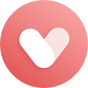
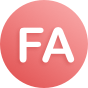
1-15-霍春阳-20:54
替换图片
2更改加载后返回定位
3.解决 分享项目页面,点击全部后..空白页面

Changed region(s): [[0.2045, 0.2955, 0.8409, 0.7727]]

diff --git a/Weitianshi/pages/projectDetail/projectDetail.js b/Weitianshi/pages/projectDetail/projectDetail.js
@@ -43,6 +43,7 @@ Page({
     nonet: true
   },
   onLoad: function (options) {
+    console.log(options)
     var that = this;
     var id = options.id;//当前被查看用户的项目id
     var share_id = options.share_id;
@@ -1388,30 +1389,34 @@ Page({
   //跳转到历史融资
   toHistory: function () {
     let that = this;
+    let share_id = this.data.share_id;
     let user_id = wx.getStorageSync('user_id');
     let id = this.data.id;
-    app.href('/pages/myProject/historyFiance/historyFiance?user_id=' + user_id + '&&project_id=' + id);
+    app.href('/pages/myProject/historyFiance/historyFiance?user_id=' + user_id + '&&project_id=' + id + '&&share_id=' + share_id);
   },
   //跳转到核心团队
   toTeam: function () {
     let that = this;
+    let share_id = this.data.share_id;
     let user_id = wx.getStorageSync('user_id');
     let id = this.data.id;
-    app.href('/pages/myProject/proTeam/proTeam?user_id=' + user_id + '&&project_id=' + id);
+    app.href('/pages/myProject/proTeam/proTeam?user_id=' + user_id + '&&project_id=' + id + '&&share_id=' + share_id);
   },
   //跳转到产品
   toBrand: function () {
     let that = this;
+    let share_id = this.data.share_id;
     let user_id = wx.getStorageSync('user_id');
     let id = this.data.id;
-    app.href('/pages/myProject/proBrand/proBrand?user_id=' + user_id + '&&project_id=' + id);
+    app.href('/pages/myProject/proBrand/proBrand?user_id=' + user_id + '&&project_id=' + id + '&&share_id=' + share_id);
   },
   //跳转到里程碑
   mileStone: function () {
     let that = this;
     let user_id = wx.getStorageSync('user_id');
+    let share_id = this.data.share_id;
     let id = this.data.id;
-    app.href('/pages/myProject/proMilestone/proMilestone?user_id=' + user_id + '&&project_id=' + id);
+    app.href('/pages/myProject/proMilestone/proMilestone?user_id=' + user_id + '&&project_id=' + id + '&&share_id=' + share_id);
   },
   contactTap: function () {
     let that = this;

diff --git a/Weitianshi/pages/message/potentialProject/potentialProject.js b/Weitianshi/pages/message/potentialProject/potentialProject.js
@@ -11,11 +11,8 @@ Page({
     nonet: true
   },
   onLoad: function (e) {
-  },
-  onShow: function (e) {
-    // 我申请查看的项目
-    var user_id = wx.getStorageSync('user_id');//获取我的user_id
     let that = this;
+    var user_id = wx.getStorageSync('user_id');//获取我的user_id
     wx.showLoading({
       title: 'loading',
       mask: true,
@@ -77,6 +74,11 @@ Page({
         }
       }
     })
+  },
+  onShow: function (e) {
+    // 我申请查看的项目
+    var user_id = wx.getStorageSync('user_id');//获取我的user_id
+    let that = this;
     // 取消红点 --推送给我的
     wx.request({
       url: url_common + '/api/message/setMessageToRead',
@@ -499,7 +501,7 @@ Page({
         this.contactProjectPerson(user_id, push_id, status, pushToList);
       }, 1000)
     })
-  }, 
+  },
   //加入项目库
   addProjectLibrary: function (e) {
     let user_id = wx.getStorageSync('user_id');
@@ -531,8 +533,8 @@ Page({
     })
   },
   //联系项目方后..改变样式
-  contactProjectPerson(user_id, push_id, status, pushToList){ 
-    let  that = this;
+  contactProjectPerson(user_id, push_id, status, pushToList) {
+    let that = this;
     wx.request({
       url: url_common + '/api/message/handlePushProjectMessage',
       data: {

diff --git a/Weitianshi/pages/myProject/historyFiance/historyFiance.js b/Weitianshi/pages/myProject/historyFiance/historyFiance.js
@@ -11,7 +11,8 @@ Page({
       index: options.index,
       id: options.project_id,
       currentTab: options.currentTab,
-      shareType: options.type
+      shareType: options.type,
+      share_id: options.share_id
     });
     console.log('pro_id', this.data.id);
   },
@@ -27,11 +28,14 @@ Page({
   projectDetailInfo() {
     let that = this;
     let user_id = wx.getStorageSync('user_id');
+    let share_id = this.data.share_id;
     wx.request({
       url: url_common + '/api/project/getProjectDetail',
       data: {
         user_id: user_id,
-        project_id: this.data.id
+        project_id: this.data.id,
+        source: "share",
+        share_id: share_id
       },
       method: 'POST',
       success: function (res) {
@@ -39,7 +43,7 @@ Page({
         let project = res.data.data;
         that.setData({
           project: project,
-      
+
         });
         // 融资信息
         let pro_history_financeList = project.pro_history_finance;
@@ -53,13 +57,13 @@ Page({
         that.setData({
           pro_history_financeList: pro_history_financeList,//显示在详情的数据
         })
-    
+
       },
     })
   },
- 
 
- 
+
+
   //下拉刷新
   onPullDownRefresh: function () {
     wx.stopPullDownRefresh()

diff --git a/Weitianshi/pages/myProject/proBrand/proBrand.js b/Weitianshi/pages/myProject/proBrand/proBrand.js
@@ -11,7 +11,8 @@ Page({
       index: options.index,
       id: options.project_id,
       currentTab: options.currentTab,
-      shareType: options.type
+      shareType: options.type,
+      share_id: options.share_id
     });
     console.log('pro_id', this.data.id);
   },
@@ -27,22 +28,26 @@ Page({
   projectDetailInfo() {
     let that = this;
     let user_id = wx.getStorageSync('user_id');
+    let share_id = this.data.share_id;
     wx.request({
       url: url_common + '/api/project/getProjectDetail',
       data: {
         user_id: user_id,
-        project_id: this.data.id
+        project_id: this.data.id,
+        source:"share",
+        share_id:share_id
       },
       method: 'POST',
       success: function (res) {
         console.log('projectDetail', res)
         let project = res.data.data;
         let brandList = res.data.data.brand;
+        console.log(brandList)
         that.setData({
           project: project,
-          brandList: brandList,
+          brandList: brandList
         });
-
+        console.log(this.data.brandList)
       },
     })
   },

diff --git a/Weitianshi/pages/message/browseMe/browseMe.js b/Weitianshi/pages/message/browseMe/browseMe.js
@@ -8,26 +8,30 @@ Page({
     nonet: true
   },
   onLoad: function (options) {
-    console.log(options)
-    if (options.id) {
-      let otherPerson_id = options.id;
-      this.setData({
-        otherPerson_id: otherPerson_id
-      })
-    }
-  },
-  onShow: function () {
     var that = this;
     app.initPage(that);
     let user_id = this.data.user_id;
-    let otherPerson_id = this.data.otherPerson_id;
+
     // 获取浏览我的用户信息
-    if (otherPerson_id) {
+    if (options.id) {
       let user_id = otherPerson_id;
       this.browseMe(user_id)
     } else if (user_id) {
       this.browseMe(user_id)
     }
+  },
+  onShow: function () {
+    // var that = this;
+    // app.initPage(that);
+    // let user_id = this.data.user_id;
+    // let otherPerson_id = this.data.otherPerson_id;
+    // 获取浏览我的用户信息
+    // if (otherPerson_id) {
+    //   let user_id = otherPerson_id;
+    //   this.browseMe(user_id)
+    // } else if (user_id) {
+    //   this.browseMe(user_id)
+    // }
   },
   // 项目推送
   projectPush(e) {

diff --git a/Weitianshi/pages/myProject/proMilestone/proMilestone.js b/Weitianshi/pages/myProject/proMilestone/proMilestone.js
@@ -11,7 +11,8 @@ Page({
       index: options.index,
       id: options.project_id,
       currentTab: options.currentTab,
-      shareType: options.type
+      shareType: options.type,
+      share_id: options.share_id
     });
     console.log('pro_id', this.data.id);
   },
@@ -27,11 +28,14 @@ Page({
   projectDetailInfo() {
     let that = this;
     let user_id = wx.getStorageSync('user_id');
+    let share_id = this.data.share_id;
     wx.request({
       url: url_common + '/api/project/getProjectDetail',
       data: {
         user_id: user_id,
-        project_id: this.data.id
+        project_id: this.data.id,
+        source: "share",
+        share_id: share_id
       },
       method: 'POST',
       success: function (res) {

diff --git a/Weitianshi/pages/myProject/proTeam/proTeam.js b/Weitianshi/pages/myProject/proTeam/proTeam.js
@@ -11,7 +11,8 @@ Page({
       index: options.index,
       id: options.project_id,
       currentTab: options.currentTab,
-      shareType: options.type
+      shareType: options.type,
+      share_id: options.share_id
     });
     console.log('pro_id', this.data.id);
   },
@@ -27,11 +28,14 @@ Page({
   projectDetailInfo() {
     let that = this;
     let user_id = wx.getStorageSync('user_id');
+    let share_id = this.data.share_id;
     wx.request({
       url: url_common + '/api/project/getProjectDetail',
       data: {
         user_id: user_id,
-        project_id: this.data.id
+        project_id: this.data.id,
+        source: "share",
+        share_id: share_id
       },
       method: 'POST',
       success: function (res) {

diff --git a/Weitianshi/pages/discoverInvest/institutionalInvest/institutionalInvest.js b/Weitianshi/pages/discoverInvest/institutionalInvest/institutionalInvest.js
@@ -7,7 +7,8 @@ Page({
 
   data: {
     banner_organization: app.globalData.picUrl.banner_organization,
-    nonet: true
+    nonet: true,
+    show:false
   },
 
   onLoad: function (options) {
@@ -37,7 +38,8 @@ Page({
       let investment_list = investormentList.investment_list.list;
       that.setData({
         investormentList: investormentList,
-        investment_list: investment_list
+        investment_list: investment_list,
+        show : true
       })
       wx.hideLoading();
     })

diff --git a/Weitianshi/pages/myProject/projectDetail/projectDetail.js b/Weitianshi/pages/myProject/projectDetail/projectDetail.js
@@ -70,7 +70,6 @@ Page({
     let pre = pages[pages.length - 2];
     if (pre) {
       pre.data.firstTime = false;
-
     }
     //  投资人数据
     let that = this;
@@ -159,6 +158,7 @@ Page({
             callBack1(res)
           } else {
             let share_id = that.data.share_id;
+            console.log("这是历史分享")
             if (!share_id) { }
             console.log('share_id', share_id)
             wx.redirectTo({

diff --git a/Weitianshi/pages/message/beAddedContacts/beAddedContacts.js b/Weitianshi/pages/message/beAddedContacts/beAddedContacts.js
@@ -7,7 +7,7 @@ Page({
     count: 0,
     nonet: true
   },
-  onShow: function () {
+  onLoad(){
     var that = this;
     app.initPage(that);
     var user_id = this.data.user_id;
@@ -34,6 +34,9 @@ Page({
         }
       })
     }
+  },
+  onShow: function () {
+    var user_id = this.data.user_id;
     //向后台发送信息取消红点
     wx.request({
       url: url_common + '/api/message/setMessageToRead',

diff --git a/Weitianshi/pages/matchInvestor/matchInvestor.js b/Weitianshi/pages/matchInvestor/matchInvestor.js
@@ -8,7 +8,7 @@ Page({
     modalBox: 0,
     nonet: true
   },
-  onShow() {
+  onLoad(){
     let that = this;
     this.getMyProject();
     app.initPage(that);
@@ -19,6 +19,9 @@ Page({
         })
       }
     });
+  },
+  onShow() {
+
   },
   // 获取项目信息
   getMyProject() {
